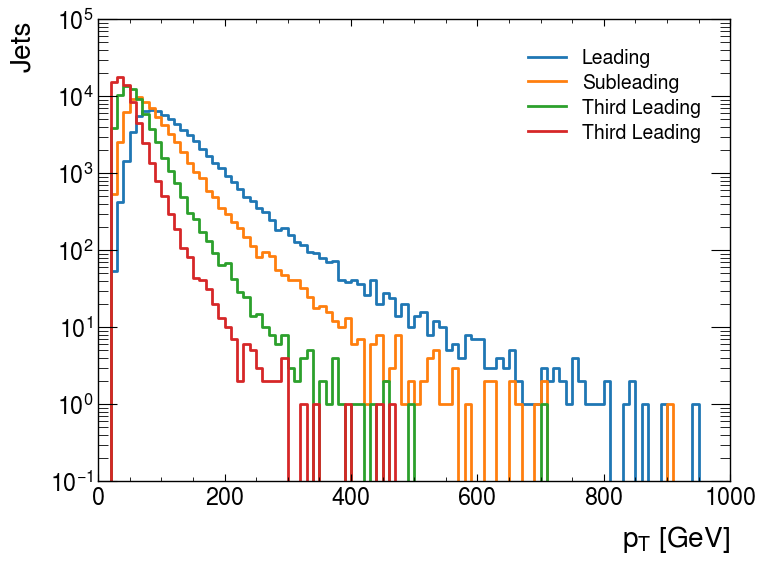
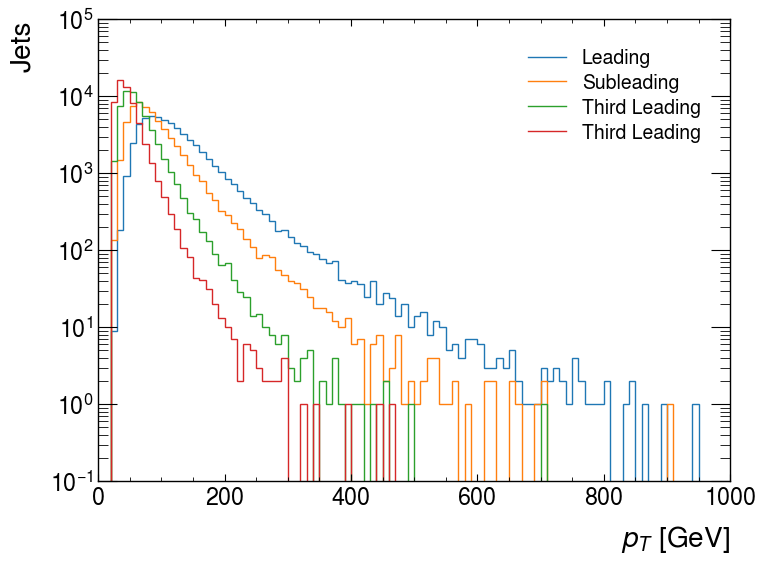
Add btag, clean up plots

diff --git a/plot_resolved_HH4b.py b/plot_resolved_HH4b.py
@@ -9,6 +9,14 @@ plt.style.use(hep.style.ATLAS)
 
 ggF_mc_21 = "/lustre/fs22/group/atlas/ruelasv/hh4b-analysis-r22-build/run/analysis-variables-run3.root"
 
+
+run3_all_short = [
+    "Asymm 2b2j DL1d@77%",
+    "Asymm 3b1j DL1d@82%",
+    "2b1j DL1d@70%",
+    "Symm 2b2j DL1d@60%",
+    "Asymm 2b2j+L1mu DL1d@77%",
+]
 run3_all = [
     "HLT_j80c_020jvt_j55c_020jvt_j28c_020jvt_j20c_020jvt_SHARED_2j20c_020jvt_bdl1d77_pf_ftf_presel2c20XX2c20b85_L1J45p0ETA21_3J15p0ETA25",  # 1 asymm
     "HLT_j80c_020jvt_j55c_020jvt_j28c_020jvt_j20c_020jvt_SHARED_3j20c_020jvt_bdl1d82_pf_ftf_presel2c20XX2c20b85_L1J45p0ETA21_3J15p0ETA25",  # 2 asymm
@@ -65,17 +73,24 @@ def get_valid_jets_pt(data):
 def get_valid_jets_mask(data):
     jets_pt = data["recojet_antikt4_NOSYS_pt"]
     jets_eta = data["recojet_antikt4_NOSYS_eta"]
-    jets_pt_valid = jets_pt[(jets_pt > 20_000) & (np.abs(jets_eta) < 2.5)]
+    jets_pt_valid = jets_pt[(jets_pt > 25_000) & (np.abs(jets_eta) < 2.5)]
     jets_pt_valid_mask = ak.num(jets_pt_valid) > 3
     return jets_pt_valid_mask
 
 
-def draw_truth_diHiggs_mass(ax, mass):
-    h, bins = np.histogram(mass * invGeV, 100)
-    hep.histplot(h, bins, ax=ax)
+def draw_truth_diHiggs_mass(mass):
+    fig, ax = plt.subplots()
+    bins = np.arange(200, 1_000, 10)
+    h, bins = np.histogram(mass * invGeV, bins)
+    hep.histplot(h / np.sum(h), bins, ax=ax, label=r"$\kappa_{\lambda}=?$")
+    ax.legend()
+    ax.set_ylabel("Events")
+    ax.set_xlabel(r"$m_{hh}$ [GeV]")
+    fig.savefig("truth_diHiggs_mass.png", bbox_inches="tight")
 
 
-def draw_jet_pt(ax, data, jet_cuts):
+def draw_jet_pt(data, jet_cuts):
+    fig, ax = plt.subplots()
     jets_pt = data["recojet_antikt4_NOSYS_pt"][jet_cuts]
     leading = jets_pt[:, 0]
     subleading = jets_pt[:, 1]
@@ -106,14 +121,15 @@ def draw_jet_pt(ax, data, jet_cuts):
     ax.set_xlabel(r"$p_{T}$ [GeV]")
     ax.set_ylabel("Jets")
     ax.set_yscale("log")
+    fig.savefig("leading_jets_pt.png", bbox_inches="tight")
 
 
-def draw_trig_eff(ax, diHiggs, data):
+def draw_trig_eff(diHiggs, data):
+    fig, ax = plt.subplots()
     diHiggs_mass = ak.ravel(diHiggs.mass)
     mass_res = 50
     mass_bins = np.arange(250, 1300, mass_res)
     h_tot, _ = np.histogram(diHiggs_mass * invGeV, mass_bins)
-
     num_trig_sets = len(trig_sets.keys())
     cm = plt.get_cmap("gist_rainbow")
     for i_trig_set, trig_set_key in enumerate(trig_sets.keys()):
@@ -150,18 +166,20 @@ def draw_trig_eff(ax, diHiggs, data):
         ax.set_xlabel(r"$m_{HH}$ [GeV]")
         ax.set_ylabel("Trigger efficiency")
 
+    fig.savefig("trig_eff_vs_truth_diHiggs_mass.png", bbox_inches="tight")
 
-def draw_jet_pt_vs_trig_eff(axs, data, jet_cuts):
+
+def draw_jet_pt_vs_trig_eff(data, jet_cuts):
     jets_pt_pre_trig = data["recojet_antikt4_NOSYS_pt"][jet_cuts]
     mass_res = 10
     mass_bins = np.arange(20, 250, mass_res)
-
+    fig, axs = plt.subplots(2, 2, constrained_layout=True)
+    axs = axs.flat
     for i in np.arange(0, 4):
-        for i_trig, trig in enumerate(run3_all):
+        for trig, trig_short in zip(run3_all, run3_all_short):
             trig_selection = data[f"trigPassed_{trig}"]
             jets_pt_post_trig = data["recojet_antikt4_NOSYS_pt"][trig_selection]
             jets_pt_post_trig = jets_pt_post_trig[jet_cuts[trig_selection]]
-
             h_tot, _ = np.histogram(jets_pt_pre_trig[:, i] * invGeV, mass_bins)
             h_pass, _ = np.histogram(jets_pt_post_trig[:, i] * invGeV, mass_bins)
             eff = (h_pass / h_tot) * 100
@@ -170,27 +188,40 @@ def draw_jet_pt_vs_trig_eff(axs, data, jet_cuts):
                 mass_bins,
                 ax=axs[i],
                 histtype="errorbar",
-                xerr=mass_res / 2,
+                xerr=True,
                 yerr=np.sqrt(eff),
-                label=i_trig + 1,
+                label=trig_short,
             )
+        axs[i].set_ylim(-5, 115)
+        axs[i].set_xlim(mass_bins[0], mass_bins[-1])
         axs[i].set_xlabel(f"jet_{i+1} " + r"$p_{T}$ [GeV]")
         axs[i].set_ylabel("Efficiency")
+        handles, labels = axs[i].get_legend_handles_labels()
+    fig.legend(
+        handles,
+        labels,
+        bbox_to_anchor=(0.98, 1),
+        loc="upper left",
+        borderaxespad=0.0,
+    )
+    fig.savefig("trig_eff_vs_jet_pt.png", bbox_inches="tight")
 
 
-def draw_jet_pt_vs_trig_eff_btag(axs, data, jet_cuts):
-    jets_pt_pre_trig = data["recojet_antikt4_NOSYS_pt"][jet_cuts]
+def draw_jet_pt_vs_trig_eff_btag(data, tagger="DL1dv01", tagger_eff="77", cuts=None):
+    jets_pt_pre_trig = data["recojet_antikt4_NOSYS_pt"][cuts]
     mass_res = 10
     mass_bins = np.arange(20, 250, mass_res)
+    fig, axs = plt.subplots(2, 2, constrained_layout=True)
+    axs = axs.flat
     for i in np.arange(0, 4):
-        for i_trig, trig in enumerate(run3_all):
+        for trig, trig_short in zip(run3_all, run3_all_short):
             trig_selection = data[f"trigPassed_{trig}"]
             jets_pt_post_trig = data["recojet_antikt4_NOSYS_pt"][trig_selection]
-            jets_pt_post_trig = jets_pt_post_trig[jet_cuts[trig_selection]]
-            btags = data["recojet_antikt4_NOSYS_DL1dv01_FixedCutBEff_77"][
+            jets_pt_post_trig = jets_pt_post_trig[cuts[trig_selection]]
+            btags = data[f"recojet_antikt4_NOSYS_{tagger}_FixedCutBEff_{tagger_eff}"][
                 trig_selection
             ]
-            btags = btags[jet_cuts[trig_selection]]
+            btags = btags[cuts[trig_selection]]
             btags_3j = ak.sum(btags, axis=-1) > 2
             jets_pt_post_trig_btagged = jets_pt_post_trig[btags_3j]
             h_tot, _ = np.histogram(jets_pt_pre_trig[:, i] * invGeV, mass_bins)
@@ -205,10 +236,76 @@ def draw_jet_pt_vs_trig_eff_btag(axs, data, jet_cuts):
                 histtype="errorbar",
                 xerr=mass_res / 2,
                 yerr=np.sqrt(eff),
-                label=i_trig + 1,
+                label=trig_short,
             )
+        axs[i].set_ylim(-5, 85)
+        axs[i].set_xlim(mass_bins[0], mass_bins[-1])
         axs[i].set_xlabel(f"jet_{i+1} " + r"$p_{T}$ [GeV]")
         axs[i].set_ylabel("Efficiency")
+        handles, labels = axs[i].get_legend_handles_labels()
+    fig.legend(
+        handles,
+        labels,
+        bbox_to_anchor=(0.98, 1),
+        loc="upper left",
+        borderaxespad=0.0,
+    )
+    fig.savefig(f"trig_eff_vs_jet_pt_{tagger}_{tagger_eff}.png", bbox_inches="tight")
+
+
+def draw_jeti_pt_vs_trig_eff_btag(data, tagger="DL1dv01", tagger_eff="77", cuts=None):
+    jets_pt_pre_trig = data["recojet_antikt4_NOSYS_pt"][cuts]
+    mass_res = 10
+    mass_bins = np.arange(20, 250, mass_res)
+    for i in np.arange(0, 4):
+        fig, (ax_top, ax_bottom) = plt.subplots(
+            2, height_ratios=(20, 10), sharex=True, constrained_layout=True
+        )
+        for trig, trig_short in zip(run3_all, run3_all_short):
+            trig_selection = data[f"trigPassed_{trig}"]
+            jets_pt_post_trig = data["recojet_antikt4_NOSYS_pt"][trig_selection]
+            jets_pt_post_trig = jets_pt_post_trig[cuts[trig_selection]]
+            btags = data[f"recojet_antikt4_NOSYS_{tagger}_FixedCutBEff_{tagger_eff}"][
+                trig_selection
+            ]
+            btags = btags[cuts[trig_selection]]
+            btags_3j = ak.sum(btags, axis=-1) > 2
+            jets_pt_post_trig_btagged = jets_pt_post_trig[btags_3j]
+            h_tot, _ = np.histogram(jets_pt_pre_trig[:, i] * invGeV, mass_bins)
+            h_pass, _ = np.histogram(jets_pt_post_trig[:, i] * invGeV, mass_bins)
+            h_pass_btag, _ = np.histogram(
+                jets_pt_post_trig_btagged[:, i] * invGeV, mass_bins
+            )
+            eff = (h_pass_btag / h_tot) * 100
+            hep.histplot(
+                eff,
+                mass_bins,
+                ax=ax_top,
+                histtype="errorbar",
+                xerr=mass_res / 2,
+                yerr=np.sqrt(eff),
+                label=trig_short,
+            )
+            # ratio = h_pass_btag / h_pass
+            ratio = h_pass / h_pass_btag
+            hep.histplot(
+                ratio,
+                mass_bins,
+                ax=ax_bottom,
+                histtype="errorbar",
+                xerr=False,
+                yerr=False,
+                label=trig_short,
+            )
+
+        ax_top.set_ylabel("Efficiency")
+        ax_bottom.set_ylim(0, 5)
+        ax_bottom.axhline(y=1.0, color="black")
+        ax_bottom.set_xlabel(f"jet_{i+1} " + r"$p_{T}$ [GeV]")
+        ax_bottom.set_ylabel(f"Ratio to b-tagged")
+        fig.savefig(
+            f"trig_eff_vs_jet{i+1}_pt_{tagger}_{tagger_eff}.png", bbox_inches="tight"
+        )
 
 
 def draw_jet_pt_vs_trig_eff_all(axs, data, jet_cuts):
@@ -238,38 +335,30 @@ def draw_jet_pt_vs_trig_eff_all(axs, data, jet_cuts):
             xerr=mass_res / 2,
             yerr=np.sqrt(eff),
         )
-        label = f"jet_{i+1} "
-        axs[i].set_xlabel(label + r"$p_{T}$ [GeV]")
+        axs[i].set_xlabel(f"jet_{i+1} " + r"$p_{T}$ [GeV]")
         axs[i].set_ylabel("Efficiency")
 
 
 def draw_plots(data_dict):
-    fig_diHiggs_mass, ax_diHiggs_mass = plt.subplots()
-    fig_trig_eff, ax_trig_eff = plt.subplots()
-    fig_jets_pt, ax_gets_pt = plt.subplots()
-    fig_jet_pt_vs_trig_eff, axs_jet_pt_vs_trig_eff = plt.subplots(
-        2, 2, constrained_layout=True
-    )
-    fig_jet_pt_vs_trig_eff_btag, axs_jet_pt_vs_trig_eff_btag = plt.subplots(
-        2, 2, constrained_layout=True
-    )
-
     for sample_name, data in data_dict.items():
         diHiggs = get_truth_diHiggs(data)
-        draw_truth_diHiggs_mass(ax_diHiggs_mass, diHiggs.mass)
-        draw_trig_eff(ax_trig_eff, diHiggs, data)
+        draw_truth_diHiggs_mass(diHiggs.mass)
+        draw_trig_eff(diHiggs, data)
         jet_cuts = get_valid_jets_mask(data)
-        draw_jet_pt(ax_gets_pt, data, jet_cuts)
-        draw_jet_pt_vs_trig_eff(axs_jet_pt_vs_trig_eff.flat, data, jet_cuts)
-        draw_jet_pt_vs_trig_eff_btag(axs_jet_pt_vs_trig_eff_btag.flat, data, jet_cuts)
-
-    fig_diHiggs_mass.savefig("truth_diHiggs_mass.png", bbox_inches="tight")
-    fig_trig_eff.savefig("trig_eff_vs_truth_diHiggs_mass.png", bbox_inches="tight")
-    fig_jets_pt.savefig("leading_jets_pt.png", bbox_inches="tight")
-    fig_jet_pt_vs_trig_eff.savefig("trig_eff_vs_jet_pt.png", bbox_inches="tight")
-    fig_jet_pt_vs_trig_eff_btag.savefig(
-        "trig_eff_vs_jet_pt_btag77.png", bbox_inches="tight"
-    )
+        draw_jet_pt(data, jet_cuts)
+        draw_jet_pt_vs_trig_eff(data, jet_cuts)
+        draw_jet_pt_vs_trig_eff_btag(
+            data, tagger="DL1dv01", tagger_eff="77", cuts=jet_cuts
+        )
+        draw_jet_pt_vs_trig_eff_btag(
+            data, tagger="GN120220509", tagger_eff="77", cuts=jet_cuts
+        )
+        draw_jeti_pt_vs_trig_eff_btag(
+            data, tagger="DL1dv01", tagger_eff="77", cuts=jet_cuts
+        )
+        draw_jeti_pt_vs_trig_eff_btag(
+            data, tagger="GN120220509", tagger_eff="77", cuts=jet_cuts
+        )
 
 
 def run():
@@ -278,7 +367,7 @@ def run():
     for sample_name, sample_path in samples.items():
         with uproot.open(f"{sample_path}:AnalysisMiniTree") as tree:
             jets_dict[sample_name] = tree.arrays(
-                filter_name="/(recojet_antikt4_NOSYS|truth_H[12])_[pt|eta|phi|m|DL1dv]|trigPassed_HLT_[j80c|2j35c|j150]/i"
+                filter_name="/(recojet_antikt4_NOSYS|truth_H[12])_[pt|eta|phi|m|DL1d|GN1]|trigPassed_HLT_[j80c|2j35c|j150]/i"
             )
     draw_plots(jets_dict)
 
